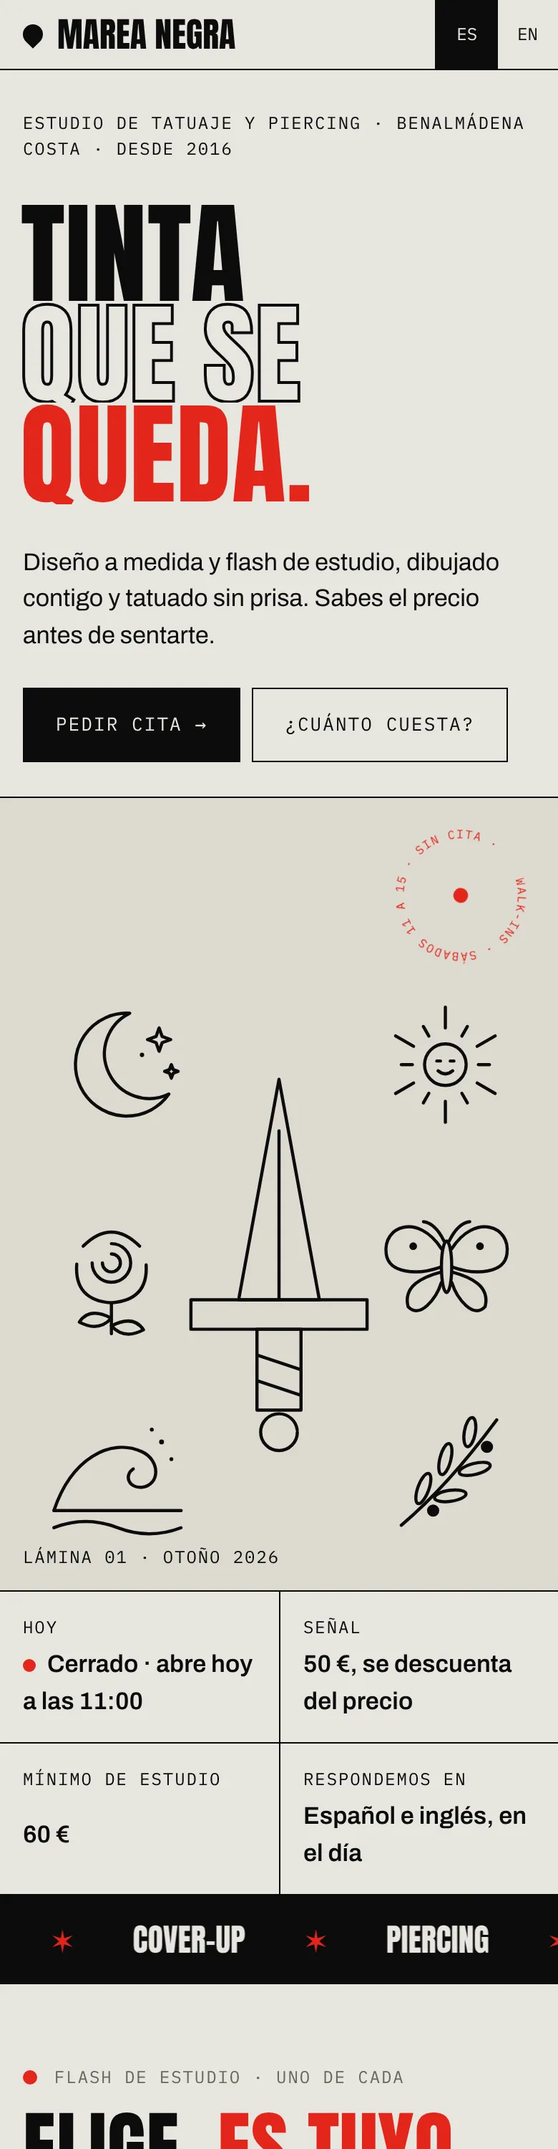
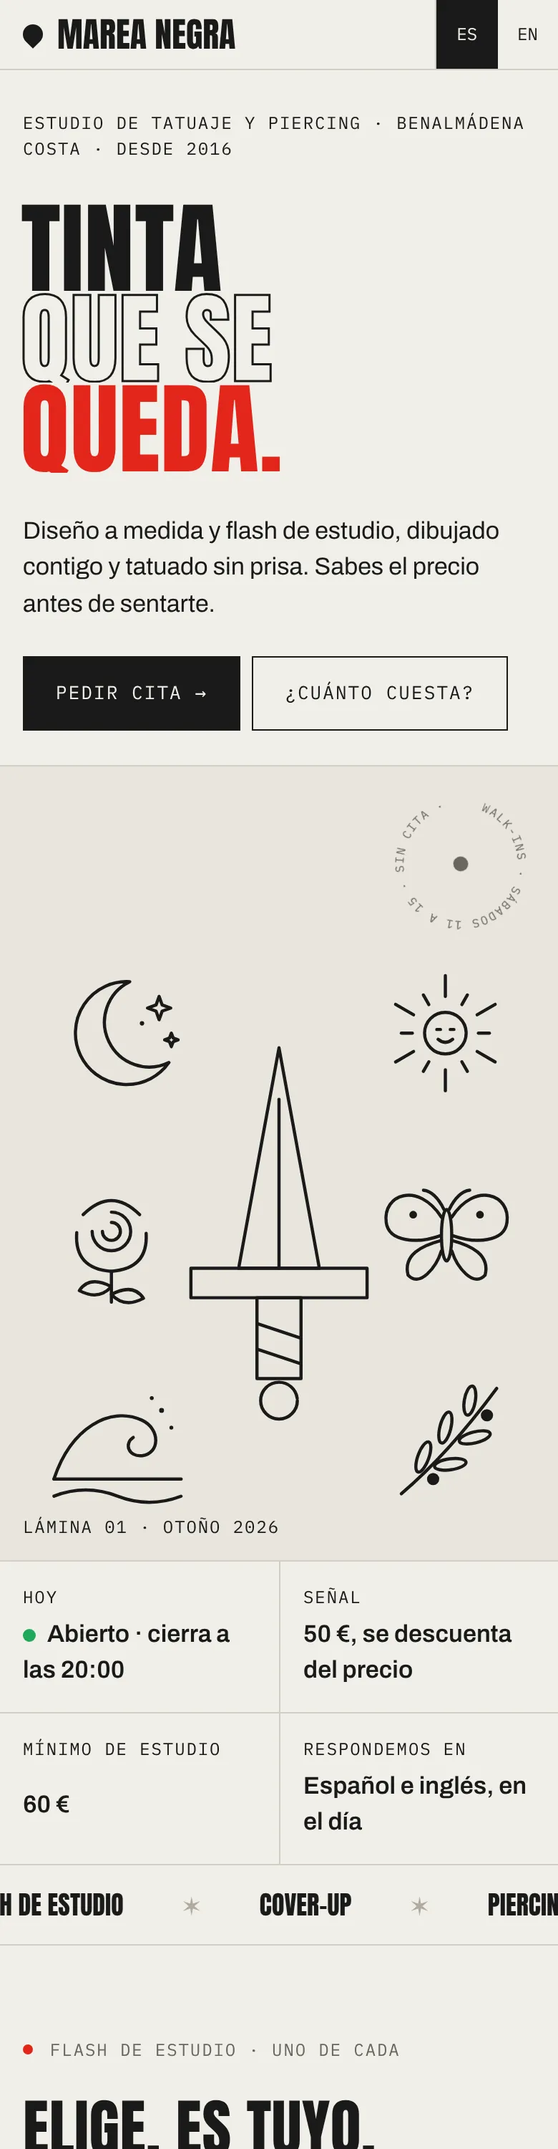
Marea Negra: versión más minimalista
Menos bloques oscuros y rojos, reglas suaves, titulares más pequeños y el
rojo solo como acento. Capturas actualizadas.

Claude-Session: https://claude.ai/code/session_01CXYDz6RyRjH1e6UMJDBzaD

diff --git a/demos/marea-negra/index.html b/demos/marea-negra/index.html
@@ -9,11 +9,13 @@
 <link rel="preconnect" href="https://fonts.gstatic.com" crossorigin>
 <link href="https://fonts.googleapis.com/css2?family=Anton&family=Archivo:wght@400;500;600&family=IBM+Plex+Mono:wght@400;500&display=swap" rel="stylesheet">
 <style>
-/* Layout idea: una lámina de flash de estudio. Papel gris, tinta negra, reglas finas a la vista, tipografía condensada enorme; rojo para lo que se puede reservar y el violeta del papel hectográfico para lo que aún es calco. */
+/* Layout idea: una lámina de flash de estudio en calma. Papel claro, tinta suave y reglas finas casi invisibles; un solo bloque oscuro (el pie) y el rojo solo como acento pequeño. */
 :root{
-  --paper:#E8E6DF;
-  --paper-2:#DDDAD1;
-  --ink:#0C0C0D;
+  --paper:#F1EFE9;
+  --paper-2:#E8E5DD;
+  --ink:#1A1A1A;
+  --rule:#D2CEC4;
+  --rule-2:#AFAB9F;
   --red:#E3261B;       /* rojo de lámina tradicional */
   --stencil:#5A3FD0;   /* violeta del calco */
   --mute:#6A675F;
@@ -31,38 +33,39 @@ a{color:inherit}
 button,input,select,textarea{font:inherit;color:inherit}
 h1,h2,h3{font-family:var(--f-display);font-weight:400;text-transform:uppercase;line-height:.86;margin:0;letter-spacing:.005em}
 p{margin:0}
-:focus-visible{outline:3px solid var(--stencil);outline-offset:3px}
+:focus-visible{outline:2px solid var(--ink);outline-offset:3px}
 .mono{font-family:var(--f-mono);font-size:12px;letter-spacing:.08em;text-transform:uppercase}
 .wrap{padding:0 var(--gut)}
-section{border-top:1px solid var(--ink)}
-.sec{padding:clamp(56px,8vw,120px) 0}
-.h2{font-size:clamp(56px,11vw,190px)}
+section{border-top:1px solid var(--rule)}
+.sec{padding:clamp(64px,9vw,136px) 0}
+.h2{font-size:clamp(44px,7.4vw,124px);line-height:.95;padding-top:.08em}
+.h2 .red{color:inherit}
 .red{color:var(--red)}
-.out{color:transparent;-webkit-text-stroke:2px var(--ink)}
+.out{color:transparent;-webkit-text-stroke:1.5px var(--ink)}
 .dark .out{-webkit-text-stroke-color:var(--paper)}
 .dark{background:var(--ink);color:var(--paper)}
 .sec-head{display:grid;grid-template-columns:minmax(0,1fr) minmax(0,auto);gap:24px;align-items:end;margin-bottom:clamp(28px,4vw,56px)}
 .sec-head p{max-width:44ch;color:var(--mute)}
 .dark .sec-head p{color:#A9A69D}
-.tag{display:flex;gap:12px;align-items:center;margin-bottom:16px}
-.tag::before{content:"";width:10px;height:10px;background:var(--red);border-radius:50%}
+.tag{display:flex;gap:12px;align-items:center;margin-bottom:22px}
+.tag::before{content:"";width:7px;height:7px;background:var(--red);border-radius:50%}
 @media (max-width:800px){.sec-head{grid-template-columns:1fr}}
 
 .btn{display:inline-flex;align-items:center;justify-content:center;gap:10px;background:var(--ink);color:var(--paper);border:1px solid var(--ink);padding:15px 22px;font-family:var(--f-mono);font-size:13px;letter-spacing:.08em;text-transform:uppercase;text-decoration:none;cursor:pointer;transition:background .2s,color .2s,transform .2s}
 .btn:hover{background:var(--red);border-color:var(--red);color:#fff}
 .btn:active{transform:translateY(2px)}
-.btn.red-b{background:var(--red);border-color:var(--red);color:#fff}
-.btn.red-b:hover{background:var(--ink);border-color:var(--ink)}
+.btn.red-b{background:var(--ink);border-color:var(--ink);color:var(--paper)}
+.btn.red-b:hover{background:var(--red);border-color:var(--red);color:#fff}
 .dark .btn{background:var(--paper);color:var(--ink);border-color:var(--paper)}
 .dark .btn:hover{background:var(--red);border-color:var(--red);color:#fff}
 .btn.line{background:transparent;color:inherit}
-.chip{border:1px solid currentColor;background:transparent;padding:9px 14px;font-family:var(--f-mono);font-size:12px;letter-spacing:.06em;text-transform:uppercase;cursor:pointer;transition:background .15s,color .15s}
+.chip{border:1px solid var(--rule-2);background:transparent;padding:9px 14px;font-family:var(--f-mono);font-size:12px;letter-spacing:.06em;text-transform:uppercase;cursor:pointer;transition:background .15s,color .15s}
 .chip[aria-pressed="true"]{background:var(--ink);color:var(--paper);border-color:var(--ink)}
 .dark .chip[aria-pressed="true"]{background:var(--paper);color:var(--ink);border-color:var(--paper)}
 .chips{display:flex;gap:8px;flex-wrap:wrap}
 
 /* nav */
-.nav{position:sticky;top:0;z-index:50;background:var(--paper);border-bottom:1px solid var(--ink);display:flex;align-items:stretch;justify-content:space-between}
+.nav{position:sticky;top:0;z-index:50;background:var(--paper);border-bottom:1px solid var(--rule);display:flex;align-items:stretch;justify-content:space-between}
 .nav>*{display:flex;align-items:center}
 .logo{font-family:var(--f-display);font-size:24px;text-transform:uppercase;text-decoration:none;padding:12px var(--gut);gap:10px;line-height:1}
 .logo i{width:14px;height:14px;background:var(--ink);border-radius:50% 50% 50% 0;transform:rotate(-45deg);display:block}
@@ -70,7 +73,7 @@ section{border-top:1px solid var(--ink)}
 .nav ul a{text-decoration:none;font-family:var(--f-mono);font-size:12px;letter-spacing:.08em;text-transform:uppercase}
 .nav ul a:hover{color:var(--red)}
 .nav-r{gap:0}
-.lang{display:flex;border-left:1px solid var(--ink);align-self:stretch}
+.lang{display:flex;border-left:1px solid var(--rule);align-self:stretch}
 .lang button{border:0;background:none;padding:0 14px;font-family:var(--f-mono);font-size:12px;cursor:pointer}
 .lang button[aria-pressed="true"]{background:var(--ink);color:var(--paper)}
 .nav .btn{align-self:stretch;border-width:0 0 0 1px}
@@ -82,30 +85,30 @@ section{border-top:1px solid var(--ink)}
 #ink{position:absolute;inset:0;width:100%;height:100%;pointer-events:none;z-index:1;mix-blend-mode:multiply}
 .hero-grid{display:grid;grid-template-columns:minmax(0,1.25fr) minmax(0,.75fr);position:relative;z-index:2}
 .hero-l{padding:clamp(28px,4vw,56px) var(--gut) clamp(24px,3vw,40px);display:flex;flex-direction:column;justify-content:space-between;gap:28px}
-.hero h1{font-size:clamp(78px,16.5vw,290px);margin-left:-.02em}
+.hero h1{font-size:clamp(70px,13.5vw,232px);margin-left:-.02em}
 .hero h1 .l{display:block;overflow:hidden;padding-top:.04em}
 .hero h1 .l>span{display:block;animation:up 1s cubic-bezier(.2,.8,.2,1) both}
 .hero h1 .l:nth-child(2)>span{animation-delay:.1s}.hero h1 .l:nth-child(3)>span{animation-delay:.2s}
 @keyframes up{from{transform:translateY(105%)}to{transform:none}}
 .hero-sub{display:flex;gap:24px;align-items:end;justify-content:space-between;flex-wrap:wrap}
 .hero-sub p{max-width:40ch;font-size:clamp(17px,1.5vw,21px)}
-.hero-r{border-left:1px solid var(--ink);position:relative;display:grid;place-items:center;padding:24px;background:var(--paper-2);min-height:360px}
+.hero-r{border-left:1px solid var(--rule);position:relative;display:grid;place-items:center;padding:24px;background:var(--paper-2);min-height:360px}
 .hero-r svg.art{width:min(100%,460px);height:auto;color:var(--ink)}
-.stamp{position:absolute;right:16px;top:16px;width:128px;height:128px;animation:spin 18s linear infinite;color:var(--red)}
+.stamp{position:absolute;right:16px;top:16px;width:128px;height:128px;animation:spin 26s linear infinite;color:var(--mute)}
 .stamp text{font-family:var(--f-mono);font-size:9.5px;letter-spacing:.1em;fill:currentColor}
 @keyframes spin{to{transform:rotate(360deg)}}
 .sheet-n{position:absolute;left:16px;bottom:14px}
-.facts{display:grid;grid-template-columns:repeat(4,1fr);border-top:1px solid var(--ink);position:relative;z-index:2;background:var(--paper)}
-.facts>div{padding:16px var(--gut);border-left:1px solid var(--ink);display:grid;gap:4px}
+.facts{display:grid;grid-template-columns:repeat(4,1fr);border-top:1px solid var(--rule);position:relative;z-index:2;background:var(--paper)}
+.facts>div{padding:16px var(--gut);border-left:1px solid var(--rule);display:grid;gap:4px}
 .facts>div:first-child{border-left:0}
 .facts b{font-weight:600}
 .dot{display:inline-block;width:9px;height:9px;border-radius:50%;background:#1FA85A;margin-right:8px}
 .dot.off{background:var(--red)}
-@media (max-width:900px){.hero-r{padding-top:128px}.stamp{width:104px;height:104px}.hero-grid{grid-template-columns:1fr}.hero-r{border-left:0;border-top:1px solid var(--ink)}.facts{grid-template-columns:1fr 1fr}.facts>div:nth-child(3){border-left:0}.facts>div:nth-child(n+3){border-top:1px solid var(--ink)}}
+@media (max-width:900px){.hero-r{padding-top:128px}.stamp{width:104px;height:104px}.hero-grid{grid-template-columns:1fr}.hero-r{border-left:0;border-top:1px solid var(--rule)}.facts{grid-template-columns:1fr 1fr}.facts>div:nth-child(3){border-left:0}.facts>div:nth-child(n+3){border-top:1px solid var(--rule)}}
 
-.ticker{background:var(--ink);color:var(--paper);overflow:hidden;border-top:1px solid var(--ink)}
-.ticker div{display:flex;gap:40px;width:max-content;padding:14px 0;animation:mq 34s linear infinite;font-family:var(--f-display);font-size:clamp(22px,3vw,40px);text-transform:uppercase;white-space:nowrap}
-.ticker span:nth-child(even){color:var(--red)}
+.ticker{background:var(--paper);color:var(--ink);overflow:hidden;border-top:1px solid var(--rule)}
+.ticker div{display:flex;gap:40px;width:max-content;padding:14px 0;animation:mq 48s linear infinite;font-family:var(--f-display);font-size:clamp(18px,1.9vw,26px);text-transform:uppercase;white-space:nowrap}
+.ticker span:nth-child(even){color:var(--rule-2)}
 @keyframes mq{to{transform:translateX(-50%)}}
 
 /* trazo que se dibuja */
@@ -121,14 +124,13 @@ section{border-top:1px solid var(--ink)}
 
 /* flash */
 .flash-bar{display:flex;justify-content:space-between;gap:16px;flex-wrap:wrap;align-items:center;margin-bottom:18px}
-.flash{display:grid;grid-template-columns:repeat(4,1fr);gap:1px;background:var(--ink);border:1px solid var(--ink)}
-.fl{min-width:0;background:var(--paper);border:0;padding:14px;text-align:left;cursor:pointer;display:grid;gap:10px;position:relative;transition:background .25s,color .25s;color:var(--stencil)}
+.flash{display:grid;grid-template-columns:repeat(4,1fr);gap:1px;background:var(--rule);border:1px solid var(--rule)}
+.fl{min-width:0;background:var(--paper);border:0;padding:14px;text-align:left;cursor:pointer;display:grid;gap:10px;position:relative;transition:background .25s,color .25s;color:var(--ink)}
 .fl .top,.fl .bot{flex-wrap:wrap;display:flex;justify-content:space-between;align-items:baseline;gap:8px;color:var(--ink);transition:color .25s}
 .fl svg{width:74%;margin:6px auto;transition:transform .5s cubic-bezier(.2,.8,.2,1)}
 .fl h3{font-size:26px}
-.fl:hover,.fl[aria-pressed="true"]{background:var(--ink);color:var(--red)}
-.fl:hover .top,.fl:hover .bot,.fl[aria-pressed="true"] .top,.fl[aria-pressed="true"] .bot{color:var(--paper)}
-.fl:hover svg{transform:scale(1.08) rotate(-3deg)}
+.fl:hover,.fl[aria-pressed="true"]{background:var(--paper-2);color:var(--red)}
+.fl:hover svg{transform:scale(1.05)}
 .fl[aria-pressed="true"]::after{content:"✓";position:absolute;right:12px;top:38px;width:28px;height:28px;border-radius:50%;background:var(--red);color:#fff;display:grid;place-items:center;font-size:15px}
 .fl.taken{cursor:not-allowed;color:var(--mute)}
 .fl.taken svg{opacity:.35}
@@ -140,96 +142,96 @@ section{border-top:1px solid var(--ink)}
 .fl.taken .st{color:var(--mute)}
 @media (max-width:1000px){.flash{grid-template-columns:repeat(3,1fr)}}
 @media (max-width:640px){.flash{grid-template-columns:repeat(2,1fr)}.fl h3{font-size:21px}}
-.pick{position:fixed;left:50%;bottom:16px;transform:translate(-50%,300%);visibility:hidden;z-index:60;background:var(--red);color:#fff;display:flex;align-items:center;gap:14px;padding:10px 10px 10px 18px;max-width:calc(100% - 24px);transition:transform .5s cubic-bezier(.2,.8,.2,1);box-shadow:6px 6px 0 var(--ink)}
+.pick{position:fixed;left:50%;bottom:16px;transform:translate(-50%,300%);visibility:hidden;z-index:60;background:var(--ink);color:var(--paper);display:flex;align-items:center;gap:14px;padding:10px 10px 10px 18px;max-width:calc(100% - 24px);transition:transform .5s cubic-bezier(.2,.8,.2,1);box-shadow:0 14px 40px -16px rgba(0,0,0,.45)}
 .pick.on{transform:translate(-50%,0);visibility:visible}
-.pick .btn{background:#fff;color:var(--ink);border-color:#fff;padding:10px 14px}
-.pick .x{background:none;border:0;color:#fff;font-size:20px;cursor:pointer;padding:4px 8px}
+.pick .btn{background:var(--paper);color:var(--ink);border-color:var(--paper);padding:10px 14px}
+.pick .x{background:none;border:0;color:var(--paper);font-size:20px;cursor:pointer;padding:4px 8px}
 
 /* estilos */
-.styles{display:flex;border:1px solid var(--ink);min-height:420px}
-.sty{flex:1;border:0;border-left:1px solid var(--ink);background:var(--paper);padding:18px;text-align:left;cursor:pointer;display:flex;flex-direction:column;justify-content:space-between;gap:20px;transition:flex .6s cubic-bezier(.2,.8,.2,1),background .3s,color .3s;overflow:hidden;min-width:0}
+.styles{display:flex;border:1px solid var(--rule);min-height:420px}
+.sty{flex:1;border:0;border-left:1px solid var(--rule);background:var(--paper);padding:18px;text-align:left;cursor:pointer;display:flex;flex-direction:column;justify-content:space-between;gap:20px;transition:flex .6s cubic-bezier(.2,.8,.2,1),background .3s,color .3s;overflow:hidden;min-width:0}
 .sty:first-child{border-left:0}
-.sty h3{font-size:clamp(34px,4.4vw,72px);white-space:nowrap}
+.sty h3{font-size:clamp(30px,3.6vw,56px);white-space:nowrap}
 .sty .more{opacity:0;max-width:44ch;transition:opacity .3s;display:grid;gap:12px}
-.sty[aria-expanded="true"]{flex:4.5;background:var(--ink);color:var(--paper)}
+.sty[aria-expanded="true"]{flex:4.5;background:var(--paper-2)}
 .sty[aria-expanded="true"] .more{opacity:1;transition-delay:.3s}
 .sty[aria-expanded="false"] h3{font-size:clamp(26px,2.5vw,40px);writing-mode:vertical-rl;transform:rotate(180deg);align-self:flex-start}
 .sty[aria-expanded="false"] .more{display:none}
-.sty .from{color:var(--red)}
-@media (max-width:860px){.styles{flex-direction:column;min-height:0}.sty{border-left:0;border-top:1px solid var(--ink)}.sty:first-child{border-top:0}.sty[aria-expanded="false"] h3{writing-mode:horizontal-tb;transform:none}}
+.sty .from{color:var(--mute)}
+@media (max-width:860px){.styles{flex-direction:column;min-height:0}.sty{border-left:0;border-top:1px solid var(--rule)}.sty:first-child{border-top:0}.sty[aria-expanded="false"] h3{writing-mode:horizontal-tb;transform:none}}
 
 /* presupuesto */
-.est{display:grid;grid-template-columns:minmax(0,1fr) minmax(0,1fr);gap:1px;background:#3A3A3C;border:1px solid #3A3A3C}
-.est>div{background:var(--ink);padding:clamp(18px,3vw,36px);display:grid;gap:22px;align-content:start}
+.est{display:grid;grid-template-columns:minmax(0,1fr) minmax(0,1fr);gap:1px;background:var(--rule);border:1px solid var(--rule)}
+.est>div{background:var(--paper);padding:clamp(18px,3vw,36px);display:grid;gap:22px;align-content:start}
 .fg{display:grid;gap:10px}
 .fg>label,.fg>span.lab{display:flex;justify-content:space-between}
 .fg output{color:var(--red)}
-input[type=range]{-webkit-appearance:none;appearance:none;width:100%;height:2px;background:currentColor;outline-offset:10px}
+input[type=range]{-webkit-appearance:none;appearance:none;width:100%;height:2px;background:var(--rule-2);outline-offset:10px}
 input[type=range]::-webkit-slider-thumb{-webkit-appearance:none;width:26px;height:26px;border-radius:50%;background:var(--red);border:0;cursor:grab}
 input[type=range]::-moz-range-thumb{width:26px;height:26px;border-radius:50%;background:var(--red);border:0;cursor:grab}
-.sel{background:transparent;border:1px solid currentColor;padding:13px 12px;width:100%;border-radius:0}
+.sel{background:transparent;border:1px solid var(--rule-2);padding:13px 12px;width:100%;border-radius:0}
 .dark .sel option{color:#000}
-.scale{position:relative;height:400px;border:1px dashed #55555A;overflow:hidden}
-.scale .card,.scale .piece{position:absolute;bottom:34px;border:1px solid var(--paper)}
-.scale .card{left:16px;border-radius:6px;border-style:dashed;display:grid;place-items:center;color:#A9A69D}
-.scale .piece{border-color:var(--red);color:var(--paper);display:grid;place-items:center;transition:width .35s cubic-bezier(.2,.8,.2,1),height .35s cubic-bezier(.2,.8,.2,1),left .35s}
+.scale{position:relative;height:400px;border:1px dashed var(--rule-2);overflow:hidden}
+.scale .card,.scale .piece{position:absolute;bottom:34px;border:1px solid var(--rule-2)}
+.scale .card{left:16px;border-radius:6px;border-style:dashed;display:grid;place-items:center;color:var(--mute)}
+.scale .piece{border-color:var(--red);color:var(--ink);display:grid;place-items:center;transition:width .35s cubic-bezier(.2,.8,.2,1),height .35s cubic-bezier(.2,.8,.2,1),left .35s}
 .scale .piece svg{width:86%;height:86%}
-.scale .ruler{position:absolute;left:0;right:0;bottom:0;height:24px;background:repeating-linear-gradient(90deg,#77777C 0 1px,transparent 1px var(--cm,10px));border-top:1px solid #77777C}
-.price{font-family:var(--f-display);font-size:clamp(54px,8vw,128px);line-height:.9;font-variant-numeric:tabular-nums}
+.scale .ruler{position:absolute;left:0;right:0;bottom:0;height:24px;background:repeating-linear-gradient(90deg,var(--rule-2) 0 1px,transparent 1px var(--cm,10px));border-top:1px solid var(--rule-2)}
+.price{font-family:var(--f-display);font-size:clamp(48px,6vw,96px);line-height:.9;font-variant-numeric:tabular-nums}
 .two{display:grid;grid-template-columns:1fr 1fr;gap:16px}
-.note{font-size:13px;color:#A9A69D}
+.note{font-size:13px;color:var(--mute)}
 @media (max-width:900px){.est{grid-template-columns:1fr}}
 
 /* artistas */
-.arts{display:grid;grid-template-columns:repeat(3,1fr);gap:1px;background:var(--ink);border:1px solid var(--ink)}
+.arts{display:grid;grid-template-columns:repeat(3,1fr);gap:1px;background:var(--rule);border:1px solid var(--rule)}
 .art-c{background:var(--paper);padding:18px;display:grid;gap:14px;align-content:start}
-.blot{background:#fff;aspect-ratio:1;overflow:hidden;border:1px solid var(--ink);position:relative}
-.blot canvas{width:100%;height:100%;filter:blur(5px) contrast(30);display:block}
+.blot{background:var(--paper-2);aspect-ratio:1;overflow:hidden;border:1px solid var(--rule);position:relative}
+.blot canvas{width:100%;height:100%;filter:blur(5px) contrast(30);display:block;mix-blend-mode:multiply;opacity:.82}
 .blot .n{position:absolute;left:10px;top:8px}
-.art-c h3{font-size:clamp(40px,4.6vw,72px)}
-.art-c ul{list-style:none;margin:0;padding:0;border-top:1px solid var(--ink)}
-.art-c li{display:flex;justify-content:space-between;gap:12px;padding:9px 0;border-bottom:1px solid var(--ink);font-size:15px}
+.art-c h3{font-size:clamp(34px,3.6vw,56px)}
+.art-c ul{list-style:none;margin:0;padding:0;border-top:1px solid var(--rule)}
+.art-c li{display:flex;justify-content:space-between;gap:12px;padding:9px 0;border-bottom:1px solid var(--rule);font-size:15px}
 .art-c li span:first-child{color:var(--mute)}
 @media (max-width:900px){.arts{grid-template-columns:1fr}.blot{aspect-ratio:16/9}}
 
 /* cita */
-.book{display:grid;grid-template-columns:minmax(0,1.1fr) minmax(0,.9fr);border:1px solid var(--ink)}
+.book{display:grid;grid-template-columns:minmax(0,1.1fr) minmax(0,.9fr);border:1px solid var(--rule)}
 .book-l{padding:clamp(18px,3vw,36px);display:grid;gap:22px;align-content:start}
-.book-r{border-left:1px solid var(--ink);background:var(--ink);color:var(--paper);padding:clamp(18px,3vw,36px);display:grid;gap:16px;align-content:start}
+.book-r{border-left:1px solid var(--rule);background:var(--paper-2);padding:clamp(18px,3vw,36px);display:grid;gap:16px;align-content:start}
 .prog{display:grid;grid-template-columns:repeat(4,1fr);gap:6px}
 .prog button{border:0;background:none;padding:0;text-align:left;cursor:pointer;display:grid;gap:8px;color:var(--mute)}
-.prog button::before{content:"";height:4px;background:var(--paper-2);transition:background .3s}
+.prog button::before{content:"";height:2px;background:var(--paper-2);transition:background .3s}
 .prog button.done::before,.prog button.cur::before{background:var(--red)}
 .prog button.cur{color:var(--ink)}
 .step{display:none;gap:18px}
 .step.cur{display:grid;animation:in .45s cubic-bezier(.2,.8,.2,1)}
 @keyframes in{from{opacity:0;transform:translateX(18px)}}
-.inp{background:transparent;border:1px solid var(--ink);padding:13px 12px;width:100%;border-radius:0}
+.inp{background:transparent;border:1px solid var(--rule-2);padding:13px 12px;width:100%;border-radius:0}
 textarea.inp{min-height:110px;resize:vertical}
-.file{border:1px dashed var(--ink);padding:16px;display:flex;gap:14px;align-items:center;cursor:pointer}
-.file img{width:64px;height:64px;object-fit:cover;border:1px solid var(--ink)}
+.file{border:1px dashed var(--rule-2);padding:16px;display:flex;gap:14px;align-items:center;cursor:pointer}
+.file img{width:64px;height:64px;object-fit:cover;border:1px solid var(--rule)}
 .file input{position:absolute;opacity:0;width:1px;height:1px}
-.file:focus-within{outline:3px solid var(--stencil);outline-offset:3px}
+.file:focus-within{outline:2px solid var(--ink);outline-offset:3px}
 .book-nav{display:flex;justify-content:space-between;gap:10px}
 .check{display:flex;gap:10px;align-items:flex-start;font-size:15px}
 .check input{width:20px;height:20px;accent-color:var(--red);margin-top:2px}
-.msg{font-family:var(--f-mono);font-size:13.5px;line-height:1.6;white-space:pre-wrap;background:#1A1A1C;border:1px solid #3A3A3C;padding:16px;min-height:200px}
+.msg{font-family:var(--f-mono);font-size:13.5px;line-height:1.6;white-space:pre-wrap;background:var(--paper);border:1px solid var(--rule);padding:16px;min-height:200px}
 .sent{display:none;border:1px solid var(--red);padding:12px;font-size:14px}
 .sent.on{display:block}
 .err{color:var(--red);font-size:14px;min-height:1.2em}
-@media (max-width:900px){.book{grid-template-columns:1fr}.book-r{border-left:0;border-top:1px solid var(--ink)}}
+@media (max-width:900px){.book{grid-template-columns:1fr}.book-r{border-left:0;border-top:1px solid var(--rule)}}
 
 /* cuidados + faq */
 .care{display:grid;grid-template-columns:minmax(0,1fr) minmax(0,1fr);gap:clamp(24px,5vw,72px)}
-.tabs{display:flex;border:1px solid var(--ink)}
-.tabs button{flex:1;border:0;border-left:1px solid var(--ink);background:none;padding:12px 8px;cursor:pointer}
+.tabs{display:flex;border:1px solid var(--rule)}
+.tabs button{flex:1;border:0;border-left:1px solid var(--rule);background:none;padding:12px 8px;cursor:pointer}
 .tabs button:first-child{border-left:0}
 .tabs button[aria-selected="true"]{background:var(--ink);color:var(--paper)}
 .care ol{margin:18px 0 0;padding:0;list-style:none;counter-reset:c;display:grid}
-.care li{counter-increment:c;display:grid;grid-template-columns:44px 1fr;padding:14px 0;border-bottom:1px solid var(--ink);animation:in .4s both}
+.care li{counter-increment:c;display:grid;grid-template-columns:44px 1fr;padding:14px 0;border-bottom:1px solid var(--rule);animation:in .4s both}
 .care li::before{content:counter(c,decimal-leading-zero);font-family:var(--f-mono);font-size:12px;color:var(--red);padding-top:4px}
-details{border-bottom:1px solid var(--ink)}
-details:first-of-type{border-top:1px solid var(--ink)}
+details{border-bottom:1px solid var(--rule)}
+details:first-of-type{border-top:1px solid var(--rule)}
 summary{list-style:none;cursor:pointer;padding:16px 0;display:flex;justify-content:space-between;gap:16px;font-weight:600;font-size:18px}
 summary::-webkit-details-marker{display:none}
 summary::after{content:"+";font-family:var(--f-mono);font-size:22px;line-height:1;transition:transform .3s}
@@ -238,35 +240,33 @@ details p{padding:0 0 18px;max-width:58ch;color:var(--mute)}
 @media (max-width:900px){.care{grid-template-columns:1fr}}
 
 /* vacaciones */
-.holiday{background:var(--red);color:#fff}
-.holiday .tag::before{background:#fff}
-.holiday .h2 .out{-webkit-text-stroke-color:#fff}
-.hol{display:grid;grid-template-columns:repeat(4,1fr);border-top:1px solid #fff;margin-top:clamp(28px,4vw,56px)}
+.holiday{background:var(--paper-2)}
+.hol{display:grid;grid-template-columns:repeat(4,1fr);border-top:1px solid var(--rule);margin-top:clamp(28px,4vw,56px)}
 .hol>div{padding:18px 18px 0 0;display:grid;gap:8px;align-content:start}
-.hol b{font-family:var(--f-display);font-weight:400;font-size:clamp(30px,3.2vw,46px);line-height:.95;text-transform:uppercase}
+.hol b{font-family:var(--f-display);font-weight:400;font-size:clamp(24px,2.3vw,34px);line-height:.95;text-transform:uppercase}
 @media (max-width:900px){.hol{grid-template-columns:1fr 1fr}}
 @media (max-width:480px){.hol{grid-template-columns:1fr}}
 
 /* opiniones + visita */
-.quotes{display:grid;grid-template-columns:repeat(3,1fr);gap:1px;background:var(--ink);border:1px solid var(--ink)}
+.quotes{display:grid;grid-template-columns:repeat(3,1fr);gap:1px;background:var(--rule);border:1px solid var(--rule)}
 .quotes figure{margin:0;background:var(--paper);padding:22px;display:grid;gap:26px;align-content:space-between}
 .quotes blockquote{margin:0;font-size:clamp(20px,1.9vw,26px);line-height:1.25;font-weight:500}
 .quotes figcaption{color:var(--mute)}
 @media (max-width:900px){.quotes{grid-template-columns:1fr}}
-.visit{display:grid;grid-template-columns:minmax(0,1fr) minmax(0,1fr);gap:1px;background:#3A3A3C}
-.visit>div{background:var(--ink);padding:clamp(20px,4vw,56px) var(--gut)}
+.visit{display:grid;grid-template-columns:minmax(0,1fr) minmax(0,1fr);gap:1px;background:var(--rule)}
+.visit>div{background:var(--paper);padding:clamp(20px,4vw,56px) var(--gut)}
 .hours{width:100%;border-collapse:collapse;margin-top:18px;font-variant-numeric:tabular-nums}
-.hours td{padding:9px 0;border-bottom:1px solid #3A3A3C}
+.hours td{padding:9px 0;border-bottom:1px solid var(--rule)}
 .hours td:last-child{text-align:right}
 .hours tr.today td{color:var(--red)}
 .contact-l{display:grid;gap:14px;margin-top:22px}
-.contact-l a{font-family:var(--f-display);font-size:clamp(34px,4.4vw,64px);text-transform:uppercase;text-decoration:none;line-height:.95}
+.contact-l a{font-family:var(--f-display);font-size:clamp(30px,3.6vw,52px);text-transform:uppercase;text-decoration:none;line-height:.95}
 .contact-l a:hover{color:var(--red)}
-.map{width:100%;height:100%;min-height:300px;color:var(--paper)}
+.map{width:100%;height:100%;min-height:300px;color:var(--ink)}
 @media (max-width:900px){.visit{grid-template-columns:1fr}}
-footer{background:var(--ink);color:var(--paper);border-top:1px solid #3A3A3C;overflow:hidden}
+footer{background:var(--ink);color:var(--paper);overflow:hidden}
 footer .row{display:flex;justify-content:space-between;gap:16px;flex-wrap:wrap;padding:18px var(--gut);color:#A9A69D}
-.giant{font-family:var(--f-display);text-transform:uppercase;font-size:clamp(60px,17.5vw,360px);line-height:.8;text-align:center;white-space:nowrap;margin-bottom:-.06em;user-select:none}
+.giant{font-family:var(--f-display);text-transform:uppercase;font-size:clamp(48px,12vw,240px);line-height:.8;opacity:.92;text-align:center;white-space:nowrap;margin-bottom:-.06em;user-select:none}
 
 @media (prefers-reduced-motion:reduce){html{scroll-behavior:auto}.ticker div,.stamp{animation:none}}
 </style>
@@ -336,7 +336,7 @@ footer .row{display:flex;justify-content:space-between;gap:16px;flex-wrap:wrap;p
   </div>
 </section>
 
-<section class="sec dark" id="precio">
+<section class="sec" id="precio" style="background:var(--paper-2)">
   <div class="wrap">
     <div class="sec-head">
       <div><p class="mono tag" data-en="Price guide">Presupuesto orientativo</p><h2 class="h2 rv" data-en="How much <span class='red'>is it?</span>">¿Cuánto <span class="red">cuesta?</span></h2></div>
@@ -370,7 +370,7 @@ footer .row{display:flex;justify-content:space-between;gap:16px;flex-wrap:wrap;p
   </div>
 </section>
 
-<section class="sec" id="cita" style="background:var(--paper-2)">
+<section class="sec" id="cita">
   <div class="wrap">
     <div class="sec-head">
       <div><p class="mono tag" data-en="Booking · 4 steps · 1 minute">Cita · 4 pasos · 1 minuto</p><h2 class="h2 rv" data-en="Tell us <span class='red'>your idea.</span>">Cuéntanos <span class="red">tu idea.</span></h2></div>
@@ -413,7 +413,7 @@ footer .row{display:flex;justify-content:space-between;gap:16px;flex-wrap:wrap;p
   <div class="wrap care">
     <div>
       <p class="mono tag" data-en="Aftercare">Cuidados</p>
-      <h2 class="h2 rv" style="font-size:clamp(48px,7.6vw,128px)" data-en="Half the tattoo <span class='red'>is yours.</span>">La mitad del tatuaje <span class="red">la haces tú.</span></h2>
+      <h2 class="h2 rv" style="font-size:clamp(40px,5.6vw,92px)" data-en="Half the tattoo <span class='red'>is yours.</span>">La mitad del tatuaje <span class="red">la haces tú.</span></h2>
       <div class="tabs mono" role="tablist" id="tabs" style="margin-top:28px"></div>
       <ol id="careList"></ol>
       <p class="note" style="color:var(--mute);margin-top:14px" data-en="Always follow what your artist tells you. If redness spreads, or you notice heat or pus, write to us and see a doctor.">Sigue siempre lo que te indique tu tatuador. Si el enrojecimiento crece o notas calor o pus, escríbenos y consulta a un médico.</p>
@@ -449,15 +449,15 @@ footer .row{display:flex;justify-content:space-between;gap:16px;flex-wrap:wrap;p
   </div>
 </section>
 
-<section class="dark" id="visita">
+<section id="visita">
   <div class="visit">
     <div>
       <p class="mono tag" data-en="Visit">Visita</p>
-      <h2 class="h2" style="font-size:clamp(48px,7vw,120px)" data-en="Come <span class='red'>by.</span>">Pásate <span class="red">por aquí.</span></h2>
+      <h2 class="h2" style="font-size:clamp(40px,5.6vw,92px)" data-en="Come <span class='red'>by.</span>">Pásate <span class="red">por aquí.</span></h2>
       <div class="contact-l"><a href="tel:+34600000000">600 000 000</a><span class="mono">hola@tuestudio.es · @tuestudio</span><span data-en="Av. del Mar 00, Benalmádena Costa. Two minutes from the promenade.">Av. del Mar 00, Benalmádena Costa. A dos minutos del paseo marítimo.</span></div>
       <table class="hours" id="hours"></table>
     </div>
-    <div style="padding:0"><svg class="map" viewBox="0 0 600 420" preserveAspectRatio="xMidYMid slice" role="img" aria-label="Plano de situación"><rect width="600" height="420" fill="#0C0C0D"/><g stroke="#2E2E31" stroke-width="1"><path d="M0 80h600M0 150h600M0 220h470M0 290h400M90 0v420M190 0v420M290 0v400M390 0v330M490 0v260"/></g><path d="M600 250C520 270 470 330 430 420H600Z" fill="#17171A"/><path d="M600 250C520 270 470 330 430 420" fill="none" stroke="currentColor" stroke-width="2"/><g fill="none" stroke="#3A3A3C" stroke-width="2"><path d="M600 280C540 296 500 346 468 420M600 312C560 324 530 366 508 420"/></g><path d="M0 220h470" stroke="currentColor" stroke-width="3"/><g transform="translate(290 220)"><circle r="26" fill="none" stroke="#E3261B" stroke-width="2"><animate attributeName="r" values="10;34" dur="2s" repeatCount="indefinite"/><animate attributeName="opacity" values="1;0" dur="2s" repeatCount="indefinite"/></circle><circle r="9" fill="#E3261B"/></g><text x="306" y="204" fill="currentColor" font-family="IBM Plex Mono,monospace" font-size="13" letter-spacing="1.5">MAREA NEGRA</text><text x="500" y="392" fill="#77777C" font-family="IBM Plex Mono,monospace" font-size="12" letter-spacing="2">MAR</text></svg></div>
+    <div style="padding:0"><svg class="map" viewBox="0 0 600 420" preserveAspectRatio="xMidYMid slice" role="img" aria-label="Plano de situación"><rect width="600" height="420" fill="#E8E5DD"/><g stroke="#D2CEC4" stroke-width="1"><path d="M0 80h600M0 150h600M0 220h470M0 290h400M90 0v420M190 0v420M290 0v400M390 0v330M490 0v260"/></g><path d="M600 250C520 270 470 330 430 420H600Z" fill="#DDD9CF"/><path d="M600 250C520 270 470 330 430 420" fill="none" stroke="currentColor" stroke-width="1.2"/><g fill="none" stroke="#C9C5BA" stroke-width="1.5"><path d="M600 280C540 296 500 346 468 420M600 312C560 324 530 366 508 420"/></g><path d="M0 220h470" stroke="currentColor" stroke-width="1.5"/><g transform="translate(290 220)"><circle r="26" fill="none" stroke="#E3261B" stroke-width="2"><animate attributeName="r" values="10;34" dur="2s" repeatCount="indefinite"/><animate attributeName="opacity" values="1;0" dur="2s" repeatCount="indefinite"/></circle><circle r="9" fill="#E3261B"/></g><text x="306" y="204" fill="currentColor" font-family="IBM Plex Mono,monospace" font-size="13" letter-spacing="1.5">MAREA NEGRA</text><text x="500" y="392" fill="#77777C" font-family="IBM Plex Mono,monospace" font-size="12" letter-spacing="2">MAR</text></svg></div>
   </div>
 </section>
 </main>
